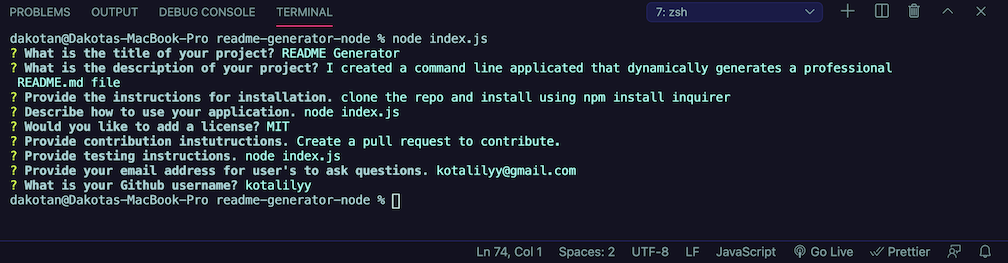
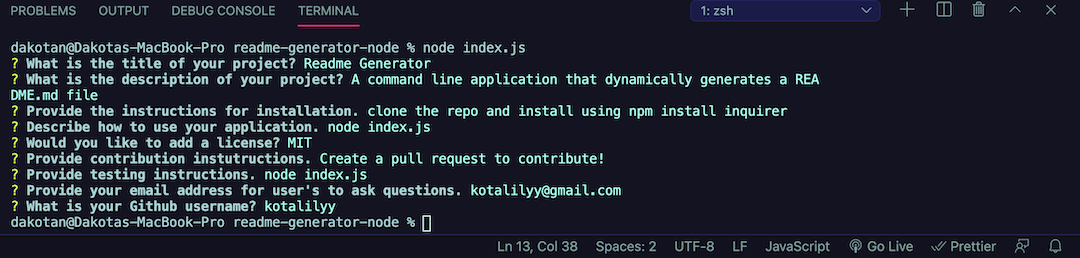
update screenshot

Changed region(s): [[0.0, 0.093, 1.0, 0.9922], [0.0, 0.0, 0.3383, 0.062], [0.6151, 0.0, 0.9841, 0.062]]

diff --git a/generated_README.md b/generated_README.md
@@ -4,19 +4,17 @@
 
 ## Description
 
-A command line application that dynamically generates a professional readme.md file
+A command line application that dynamically generates a README.md file
 
 ## Table of Contents 
 
-  - [Readme Generator](#readme-generator)
-  - [Description](#description)
-  - [Table of Contents](#table-of-contents)
-  - [Installation](#installation)
-  - [Usage](#usage)
-  - [License](#license)
-  - [Contributing](#contributing)
-  - [Tests](#tests)
-  - [Questions](#questions)
+- [Installation](#installation)
+- [Usage](#usage)
+- [Credits](#credits)
+- [License](#license)
+- [Contributing](#contributing)
+- [Tests](#tests)
+- [Questions](#questions)
 
 ## Installation 
 

diff --git a/README.md b/README.md
@@ -27,7 +27,8 @@ npm install inquirer
 ## Usage
 
 Video Instructions for Usage: https://drive.google.com/file/d/1KGzGBd6cqvhkmORPLkpv14iqbfkZ0CB8/view
-![screenshot](/images/readmegen.PNG)
+
+![screenshot](/images/readmegen.png)
 
 ## Credits
 
